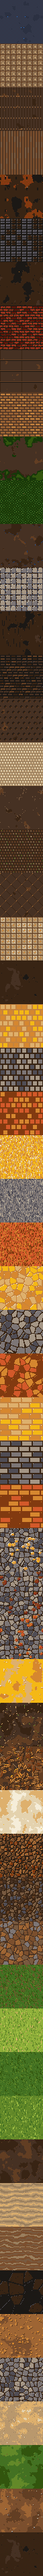
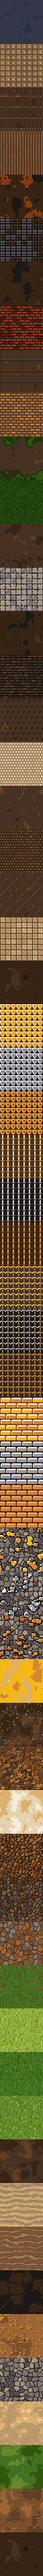
Arte: minérios, barras e equipamentos do atlas refeitos
Minérios com pepitas de contorno escuro (ferro em aço claro), barras em
lingotes empilhados e ferramentas, armas e armaduras como objetos 8x8
(picareta, espada, escudo). Só as linhas 21 a 35 do atlas mudaram.

Changed region(s): [[0.0, 0.375, 1.0, 0.6562]]

diff --git a/Assets/Project/Art/Terrain/Source~/terrain_atlas.py b/Assets/Project/Art/Terrain/Source~/terrain_atlas.py
@@ -275,42 +275,139 @@ def nectar(seed):
     return np.where(mask, np.where(e == 1, 16, np.where(e == -1, 12, 15)), out)
 
 
-def ore(seed, base, hi, lo):
-    """Minério (REQ-071): a pedra com pintas do metal, com luz e sombra, em grãos de 2 texels ou mais para sobreviver à redução."""
+def grow(mask, k):
+    """Dilata a máscara em k texels (disco sem as quinas), com emenda periódica."""
+    out = mask.copy()
+    for dy in range(-k, k + 1):
+        for dx in range(-k, k + 1):
+            if abs(dx) + abs(dy) <= k + 1 and (dx or dy):
+                out |= roll(mask, dx, dy)
+    return out
+
+
+def nuggets(seed, clusters, rmin, rmax):
+    """Pepitas: elipse grande com duas ou três menores em volta, periódicas. Máscara booleana."""
+    r = rng(seed)
+    mask = np.zeros((N, N), bool)
+    yy, xx = np.mgrid[0:N, 0:N] + 0.5
+    for _ in range(clusters):
+        cx, cy = r.random() * N, r.random() * N
+        parts = [(cx, cy, r.uniform(rmin, rmax))]
+        for _ in range(r.integers(1, 3)):
+            ang = r.random() * 6.283
+            d = r.uniform(rmax * 0.9, rmax * 1.5)
+            parts.append((cx + d * np.cos(ang), cy + d * np.sin(ang) * 0.7, r.uniform(2.6, 3.6)))
+        for px, py, pr in parts:
+            for ox in (-N, 0, N):
+                for oy in (-N, 0, N):
+                    mask |= ((xx - px - ox) / pr) ** 2 + ((yy - py - oy) / (pr * 0.8)) ** 2 <= 1
+    return mask
+
+
+def pair(m):
+    """Engrossa de 1 para 2 texels (grão que sobrevive à redução a 8 texels por célula)."""
+    return m | roll(m, 1, 0) | roll(m, 0, 1) | roll(m, 1, 1)
+
+
+def ore(seed, body, hi, lo, glint, rust=None):
+    """Minério (REQ-071): a pedra com pepitas do metal, em contorno escuro de 2 texels, com luz no alto/esquerda,
+    sombra embaixo/direita, facetas em dois tons e brilhos."""
     out = stones(seed, 9, 1, [17, 18, 18, 19], 20, 17)
-    mask = blobs(seed + 7, 20, 4.0, 7.0)
-    e = light_edges(mask)
-    tone = np.array(base)[rng(seed + 8).integers(0, len(base), (N, N))]
-    return np.where(mask, np.where(e == 1, hi, np.where(e == -1, lo, tone)), out)
+    mask = nuggets(seed + 7, 18, 6.0, 9.0)
+    outline = grow(mask, 2) & ~mask
+    lv = majority(np.digitize(fbm(seed + 3), [0.5]), 2)
+    tone = np.array(body)[lv]
+    lit = mask & ~roll(mask, 2, 2)
+    shade = mask & ~roll(mask, -2, -2)
+    core = mask & ~lit & ~shade
+    fill = np.where(lit, hi, np.where(shade, lo, tone))
+    fill = np.where(core & pair(specks(seed + 11, 0.012)), glint, fill)
+    if rust is not None:
+        fill = np.where(core & pair(specks(seed + 12, 0.012)), rust, fill)
+    out = np.where(outline, 0, out)
+    return np.where(mask, fill, out)
 
 
 def copperore(seed):
-    return ore(seed, [33, 34, 12], 12, 8)
+    return ore(seed, [12, 34], 7, 8, 16)
 
 
 def ironore(seed):
-    return ore(seed, [8, 33, 9], 10, 32)
+    return ore(seed, [45, 44], 46, 18, 31)
 
 
 def goldore(seed):
-    return ore(seed, [13, 7, 12], 16, 11)
+    return ore(seed, [13, 12], 16, 11, 46)
 
 
-METALS = {'Copper': ([8, 34, 12], 12, 8), 'Iron': ([17, 18, 19], 20, 1), 'Gold': ([12, 13, 7], 16, 11)}
+# Barra: lingote (borda, sombra de baixo, sombra do lado, tons do corpo, topo claro, brilho)
+INGOTS = {'Copper': dict(out=32, bottom=8, side=34, body=[12, 11], top=7, glint=16),
+          'Iron': dict(out=0, bottom=17, side=18, body=[44, 19], top=45, glint=46),
+          'Gold': dict(out=8, bottom=10, side=11, body=[13, 12], top=16, glint=46)}
+
+
+def ingots(seed, metal):
+    """Barra (REQ-071): lingotes de 32 x 16 texels empilhados em fileiras alternadas, com borda escura de 2 texels, topo
+    claro, lado e base na sombra, quinas cortadas e um brilho no topo."""
+    c = INGOTS[metal]
+    uid, ix, iy = grid_units(32, 16, offset=16)
+    tone = np.array(c['body'])[rng(seed).integers(0, len(c['body']), uid.max() + 1)[uid]]
+    out = np.where(iy < 6, c['top'], np.where(iy >= 14, c['bottom'], tone))
+    out = np.where((ix >= 30) & (iy >= 6) & (iy < 14), c['side'], out)
+    out = np.where((ix < 4) & (iy >= 6) & (iy < 14), c['top'], out)
+    out = np.where((ix >= 6) & (ix < 10) & (iy >= 2) & (iy < 4), c['glint'], out)
+    border = (ix < 2) | (iy < 2)
+    for cx in (2, 30):  # quinas cortadas em 2 x 2 texels
+        for cy in (2, 14):
+            border |= (ix >= cx) & (ix < cx + 2) & (iy >= cy) & (iy < cy + 2)
+    return np.where(border, c['out'], out)
+
+
+# Equipamento: um objeto de 8 x 8 por célula (desenhado a 8 e ampliado 2x, para a redução a 8 texels devolver o desenho),
+# em fileiras de células, sobre um fundo escuro. l = luz, m = corpo, d = sombra, x e w = cabo de madeira (claro e escuro), . = fundo.
+GLYPHS = {
+    'Tool': ['.llmmmd.',
+             'lm.xw.md',
+             'm..xw..d',
+             '...xw...',
+             '...xw...',
+             '...xw...',
+             '...xw...',
+             '........'],
+    'Weapon': ['...ll...',
+               '...lm...',
+               '...lm...',
+               '...lm...',
+               '...lm...',
+               '.dddddd.',
+               '...xw...',
+               '...dd...'],
+    'Armor': ['llllllld',
+              'lmmmmmmd',
+              'lmmddmmd',
+              'lmmddmmd',
+              '.lmmmmd.',
+              '.lmmmmd.',
+              '..lmmd..',
+              '...dd...'],
+}
+GEAR = {'Copper': dict(bg=1, l=7, m=12, d=8, x=5, w=4), 'Iron': dict(bg=0, l=46, m=44, d=18, x=5, w=4),
+        'Gold': dict(bg=2, l=16, m=13, d=11, x=5, w=4)}
+
+
+def gear(metal, kind):
+    """Ferramenta (picareta), arma (espada) ou armadura (peitoral) do metal, um por célula, sobre fundo escuro."""
+    c = GEAR[metal]
+    unit = np.array([[c['bg'] if ch == '.' else c[ch] for ch in row] for row in GLYPHS[kind]])
+    return np.kron(np.tile(unit, (N // 16, N // 16)), np.ones((2, 2), int))
 
 
 def metal_good(seed, metal, kind):
-    """Barra e equipamentos (REQ-071), provisórios: só aparecem no bloco carregado e no item guardado. O padrão diz o tipo
-    (barra em lingotes, ferramenta em lascas, arma em lâminas verticais, armadura em escamas) e as cores dizem o metal."""
-    tones, hi, lo = METALS[metal]
+    """Barra e equipamentos (REQ-071): só aparecem no bloco carregado e no item guardado. A barra são lingotes
+    empilhados; ferramenta, arma e armadura são o desenho do objeto, e as cores dizem o metal."""
     if kind == 'Bar':
-        return masonry(seed, 32, 16, tones, lo, hi, lo, offset=8, bevel=2)[0]
-    if kind == 'Tool':
-        return chunks(seed, 7, tones, lo, hi, lo)
-    if kind == 'Weapon':
-        out = fibers(seed, [tones[1], tones[0], tones[2], hi], vertical=True, density=0.9)
-        return out
-    return masonry(seed, 16, 16, tones, lo, hi, lo, offset=8, bevel=1, rounded=True)[0]
+        return ingots(seed, metal)
+    return gear(metal, kind)
 
 
 # ---------------------------------------------------------------- salas construídas (REQ-058)

diff --git a/Production/ART.md b/Production/ART.md
@@ -6,7 +6,7 @@
 
 ## Resumo
 
-Arte do equipamento das formigas aprovada em 2026-10-23 (ART-028, REQ-071): camadas vestidas, nove itens 8 × 8 e cinco ícones de HUD em cobre, ferro e ouro, vistos em Play Mode; as barras e os minérios do atlas continuam provisórios (ART-027).
+Arte do equipamento das formigas aprovada em 2026-10-23 (ART-028, REQ-071): camadas vestidas, nove itens 8 × 8 e cinco ícones de HUD em cobre, ferro e ouro, vistos em Play Mode; minérios e barras do atlas foram redesenhados em 2026-10-23, aguardando aprovação; ferramentas, armas e armaduras do atlas continuam provisórias (ART-027).
 
 Tiles de sala construída no atlas do terreno em 2026-10-22 (ART-023, REQ-058): bloco e parede de fundo para sete famílias (os cinco depósitos dividem uma), na paleta mestra, aprovados pelo desenvolvedor na maquete. Desde o mesmo dia aparecem no jogo quando as formigas rebocam a sala (PRG-071); berçário e depósito conferidos em Play Mode pelo agente.
 
@@ -168,7 +168,7 @@ Lista de arte por bioma, por camada e para os postos avançados, com ordem suger
 
 ### ART-027 — Minérios, barras e equipamentos
 
-Linhas 21 a 23 (minérios: a pedra com pintas grandes do metal) e 24 a 35 (barras, ferramentas, armas e armaduras de cada metal, padrões provisórios só para o bloco carregado e o item guardado), geradas por `terrain_atlas.py`, reduzidas a 8 px e inseridas no atlas. Em 2026-10-23, depois do teste de jogo, pedido do desenvolvedor: famílias de sala construída próprias para a fundição, a forja e os dois armazéns de equipamento (linhas 51 a 58 do atlas) e os itens guardados desenhados com a arte do atlas, como objetos sobre a parede de fundo. A arte do equipamento das formigas (camadas vestidas, itens e ícones de HUD) passou para ART-028. Faltam as barras e os minérios do atlas, ainda provisórios. Lista no [Documento 45](../Docs/01_Design/45_Minerios_fundicao_forja_e_equipamento.md).
+Linhas 21 a 23 (minérios: a pedra com pintas grandes do metal) e 24 a 35 (barras, ferramentas, armas e armaduras de cada metal, padrões provisórios só para o bloco carregado e o item guardado), geradas por `terrain_atlas.py`, reduzidas a 8 px e inseridas no atlas. Em 2026-10-23, depois do teste de jogo, pedido do desenvolvedor: famílias de sala construída próprias para a fundição, a forja e os dois armazéns de equipamento (linhas 51 a 58 do atlas) e os itens guardados desenhados com a arte do atlas, como objetos sobre a parede de fundo. A arte do equipamento das formigas (camadas vestidas, itens e ícones de HUD) passou para ART-028. Em 2026-10-23 os minérios (linhas 21 a 23) e as barras (24 a 26) foram redesenhados: pepitas com contorno escuro e lingotes empilhados, gerados a 16 texels, reduzidos e inseridos só nessas linhas; importação conferida na Unity e os seis materiais vistos em Play Mode pelo agente (amostras postas em área iluminada); falta a aprovação do desenvolvedor. O ferro foi clareado (pepitas de aço claro) por falta de contraste com a pedra; a versão clara só foi vista na prévia e importada na Unity, não em Play Mode. No mesmo dia as ferramentas, armas e armaduras (linhas 27 a 35) viraram objetos 8 × 8 por célula (picareta, espada, escudo), vistos em Play Mode pelo agente na mesma amostra; falta a aprovação do desenvolvedor, e o bloco carregado e o item guardado reais não foram vistos. Lista no [Documento 45](../Docs/01_Design/45_Minerios_fundicao_forja_e_equipamento.md).
 
 ### ART-028 — Arte do equipamento das formigas
 

diff --git a/Assets/Project/Art/Terrain/README.md b/Assets/Project/Art/Terrain/README.md
@@ -37,8 +37,9 @@ Precisa de Python com `numpy` e `Pillow`. O script falha se alguma cor sair da p
 | 18 | Serapilheira (REQ-070, 2026-10-23) | Folhas secas sobrepostas com nervura e luz na borda, gravetos miúdos sobre húmus. No 8x8 foi gerada a 16 texels, reduzida com `halve_pixel_art.py` e inserida no PNG atual (as outras linhas não foram regeradas) | 1–5, 8–13 |
 | 19 | Terra adubada (REQ-070) | Terra escura com torrões, palha picada e pontas de folha em traços de 2 texels (para sobreviver à redução a 8) | 1–4, 6, 7, 25 |
 | 20 | Néctar (REQ-070) | Mel âmbar com bolhas de luz; só no bloco carregado e no item | 7, 12, 13, 15, 16 |
-| 21–23 | Minérios de cobre, ferro e ouro (REQ-071) | A pedra com pintas grandes do metal, com luz e sombra | pedra 1, 17–20; cobre 8, 12, 33, 34; ferro 8–10, 32, 33; ouro 7, 11–13, 16 |
-| 24–35 | Barras, ferramentas, armas e armaduras de cobre, ferro e ouro (REQ-071), provisórias | Lingotes, lascas, lâminas verticais e escamas nas cores do metal; só no bloco carregado e no item | por metal: cobre 8, 12, 34; ferro 1, 17–20; ouro 7, 11–13, 16 |
+| 21–23 | Minérios de cobre, ferro e ouro (REQ-071; refeitos em 2026-10-23) | A pedra com pepitas do metal, em contorno escuro de 2 texels, luz no alto/esquerda, facetas em dois tons e brilhos | pedra 0, 1, 17–20; cobre 7, 8, 12, 16, 34; ferro 18, 31, 44–46 (pepitas claras de aço, para destacar da pedra); ouro 11–13, 16, 46 |
+| 24–26 | Barras de cobre, ferro e ouro (REQ-071; refeitas em 2026-10-23) | Lingotes de 32 × 16 texels (16 × 8 no 8x8) em fileiras alternadas, borda escura, topo claro, lado e base na sombra, brilho no topo; só no bloco carregado e no item guardado | cobre 7, 8, 11, 12, 16, 32, 34; ferro 0, 17–19, 44–46; ouro 8, 10–13, 16 |
+| 27–35 | Ferramentas (27–29), armas (30–32) e armaduras (33–35) de cobre, ferro e ouro (REQ-071; refeitas em 2026-10-23) | Um objeto de 8 × 8 texels por célula sobre fundo escuro: picareta, espada e escudo com bossa central, na cor do metal, com cabo de madeira; só no bloco carregado e no item guardado | cobre 1, 4, 5, 7, 8, 12; ferro 0, 4, 5, 18, 44, 46; ouro 2, 4, 5, 11, 13, 16 |
 | 0, 36 | Vazio e parede de fundo | Tom do túnel com poucas manchas escuras | 0, 1, 2 |
 | 51–58 | Bloco e fundo das salas da fundição, da forja e dos armazéns de armas e de armaduras (2026-10-23) | Fundição: tijolo refratário e brasa nas frestas. Forja: pedra escura com rebites e brilho do fogo. Armas: tábuas e cabideiro. Armaduras: painéis claros e tecido azul. Inseridas no fim do PNG atual, reduzidas a 8 | 0–2, 8, 32–34; 0, 1, 8, 17, 18, 20, 33; 1–4, 9, 10, 18; 1, 3–6, 14, 29, 30 |
 
